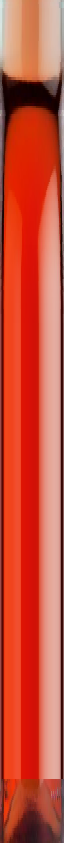
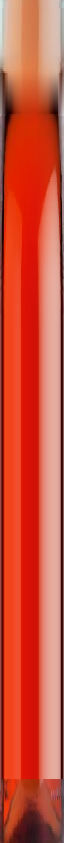
Rosato: via l'anello nero sulla spalla vista dall'alto (la lente scura del collo nella foto della cantina, ora sfumata)

Changed region(s): [[0.0, 0.0617, 0.9688, 0.1542]]

diff --git a/strumenti/vetro.py b/strumenti/vetro.py
@@ -15,8 +15,10 @@ from PIL import Image
 BOTTIGLIE = {
     # nostra bottiglia (righe della foto di fronte): fondo capsula, inizio corpo dritto, inizio tallone, piede
     # foto su bianco: fondo capsula, inizio corpo, righe del corpo libero sopra l'etichetta, inizio tallone, piede, centro
+    # nero (facoltativo): righe della foto su bianco dove il collo si allarga e il vetro spesso fa lente e viene nero;
+    # visto di lato è una riga, ma dall'alto la spalla si vede di piatto e diventa un anello: lì si sfuma da sopra a sotto
     "grechetto": dict(nostra=(362, 796, 1172, 1198), bianco=(240, 562, (470, 515), 885, 915), cx=500.5),
-    "vignarosa": dict(nostra=(370, 693, 1149, 1212), bianco=(237, 386, (390, 432), 881, 912), cx=496),
+    "vignarosa": dict(nostra=(370, 693, 1149, 1212), bianco=(237, 386, (390, 432), 881, 912), cx=496, nero=(271, 289)),
 }
 N = 64  # colonne: da bordo sinistro a bordo destro
 
@@ -46,6 +48,13 @@ def mappa(foto, B):
 
     zc, corpo, tallone, piede = B["nostra"]
     zp, corpoP, (c0, c1), talloneP, piedeP = B["bianco"]
+    def riga(yp):
+        n = B.get("nero")
+        if n and n[0] < yp < n[1]:
+            w = (yp - n[0]) / (n[1] - n[0])
+            return profilo(n[0]) * (1 - w) + profilo(n[1]) * w
+        return profilo(int(round(yp)))
+
     corpoMedio = np.median(np.array([profilo(y) for y in range(c0, c1 + 1, 3)]), 0)
     righe = []
     for y in range(zc, piede + 1):
@@ -53,7 +62,7 @@ def mappa(foto, B):
             yp = zp + (y - zc) / (corpo - zc) * (corpoP - zp)
             # la spalla sfuma nel profilo del corpo, senza scalino
             w = float(np.clip((yp - (c0 - 40)) / 40, 0, 1))
-            righe.append(corpoMedio if w >= 1 else profilo(int(round(min(yp, c0)))) * (1 - w) + corpoMedio * w)
+            righe.append(corpoMedio if w >= 1 else riga(min(yp, c0)) * (1 - w) + corpoMedio * w)
         elif y < tallone:
             righe.append(corpoMedio)
         else:
